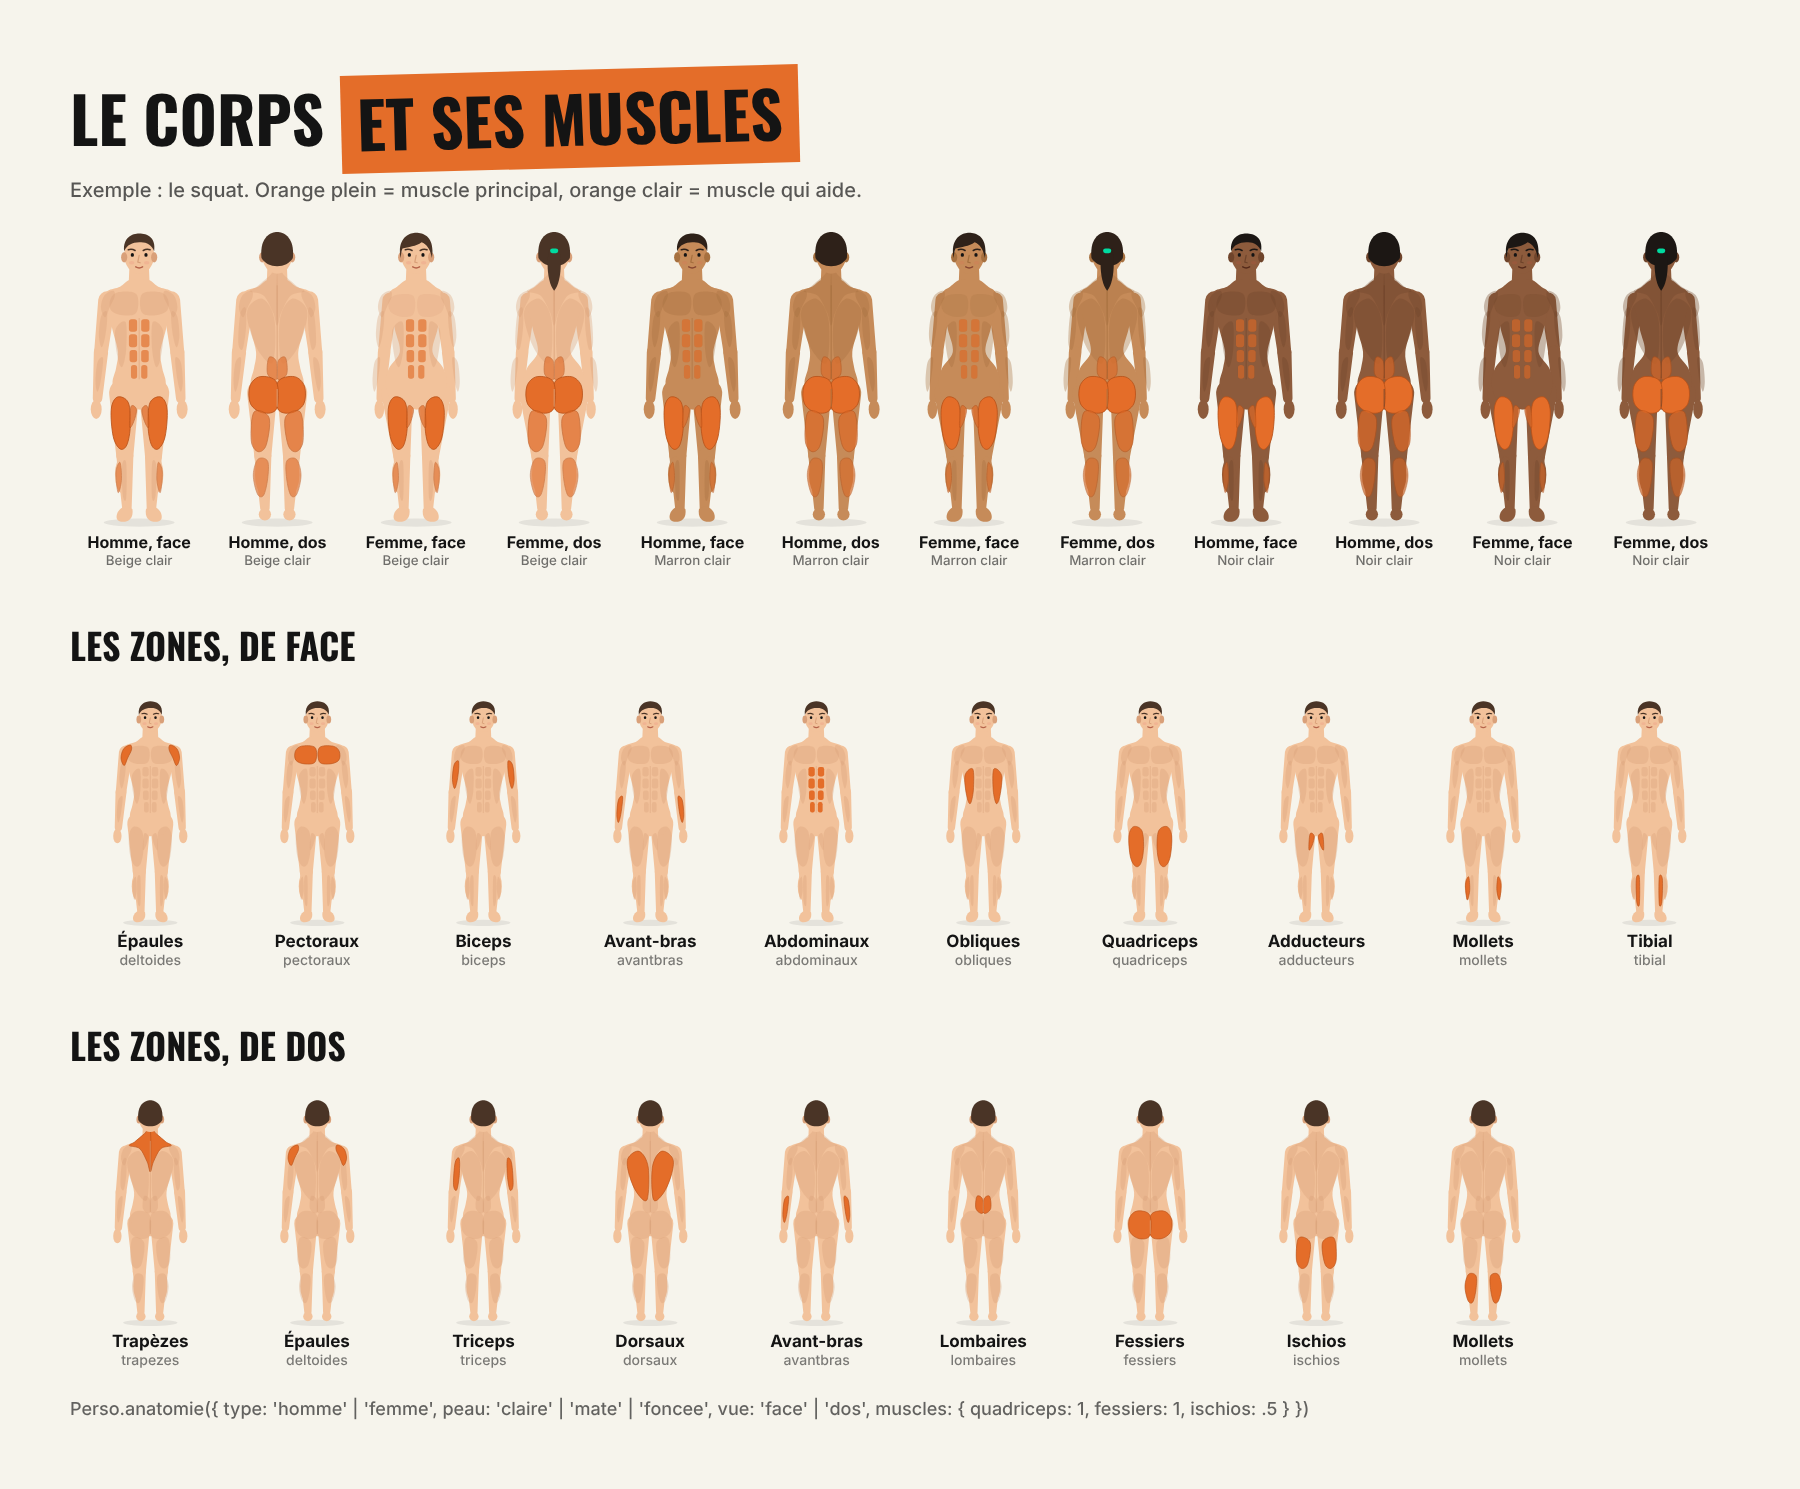
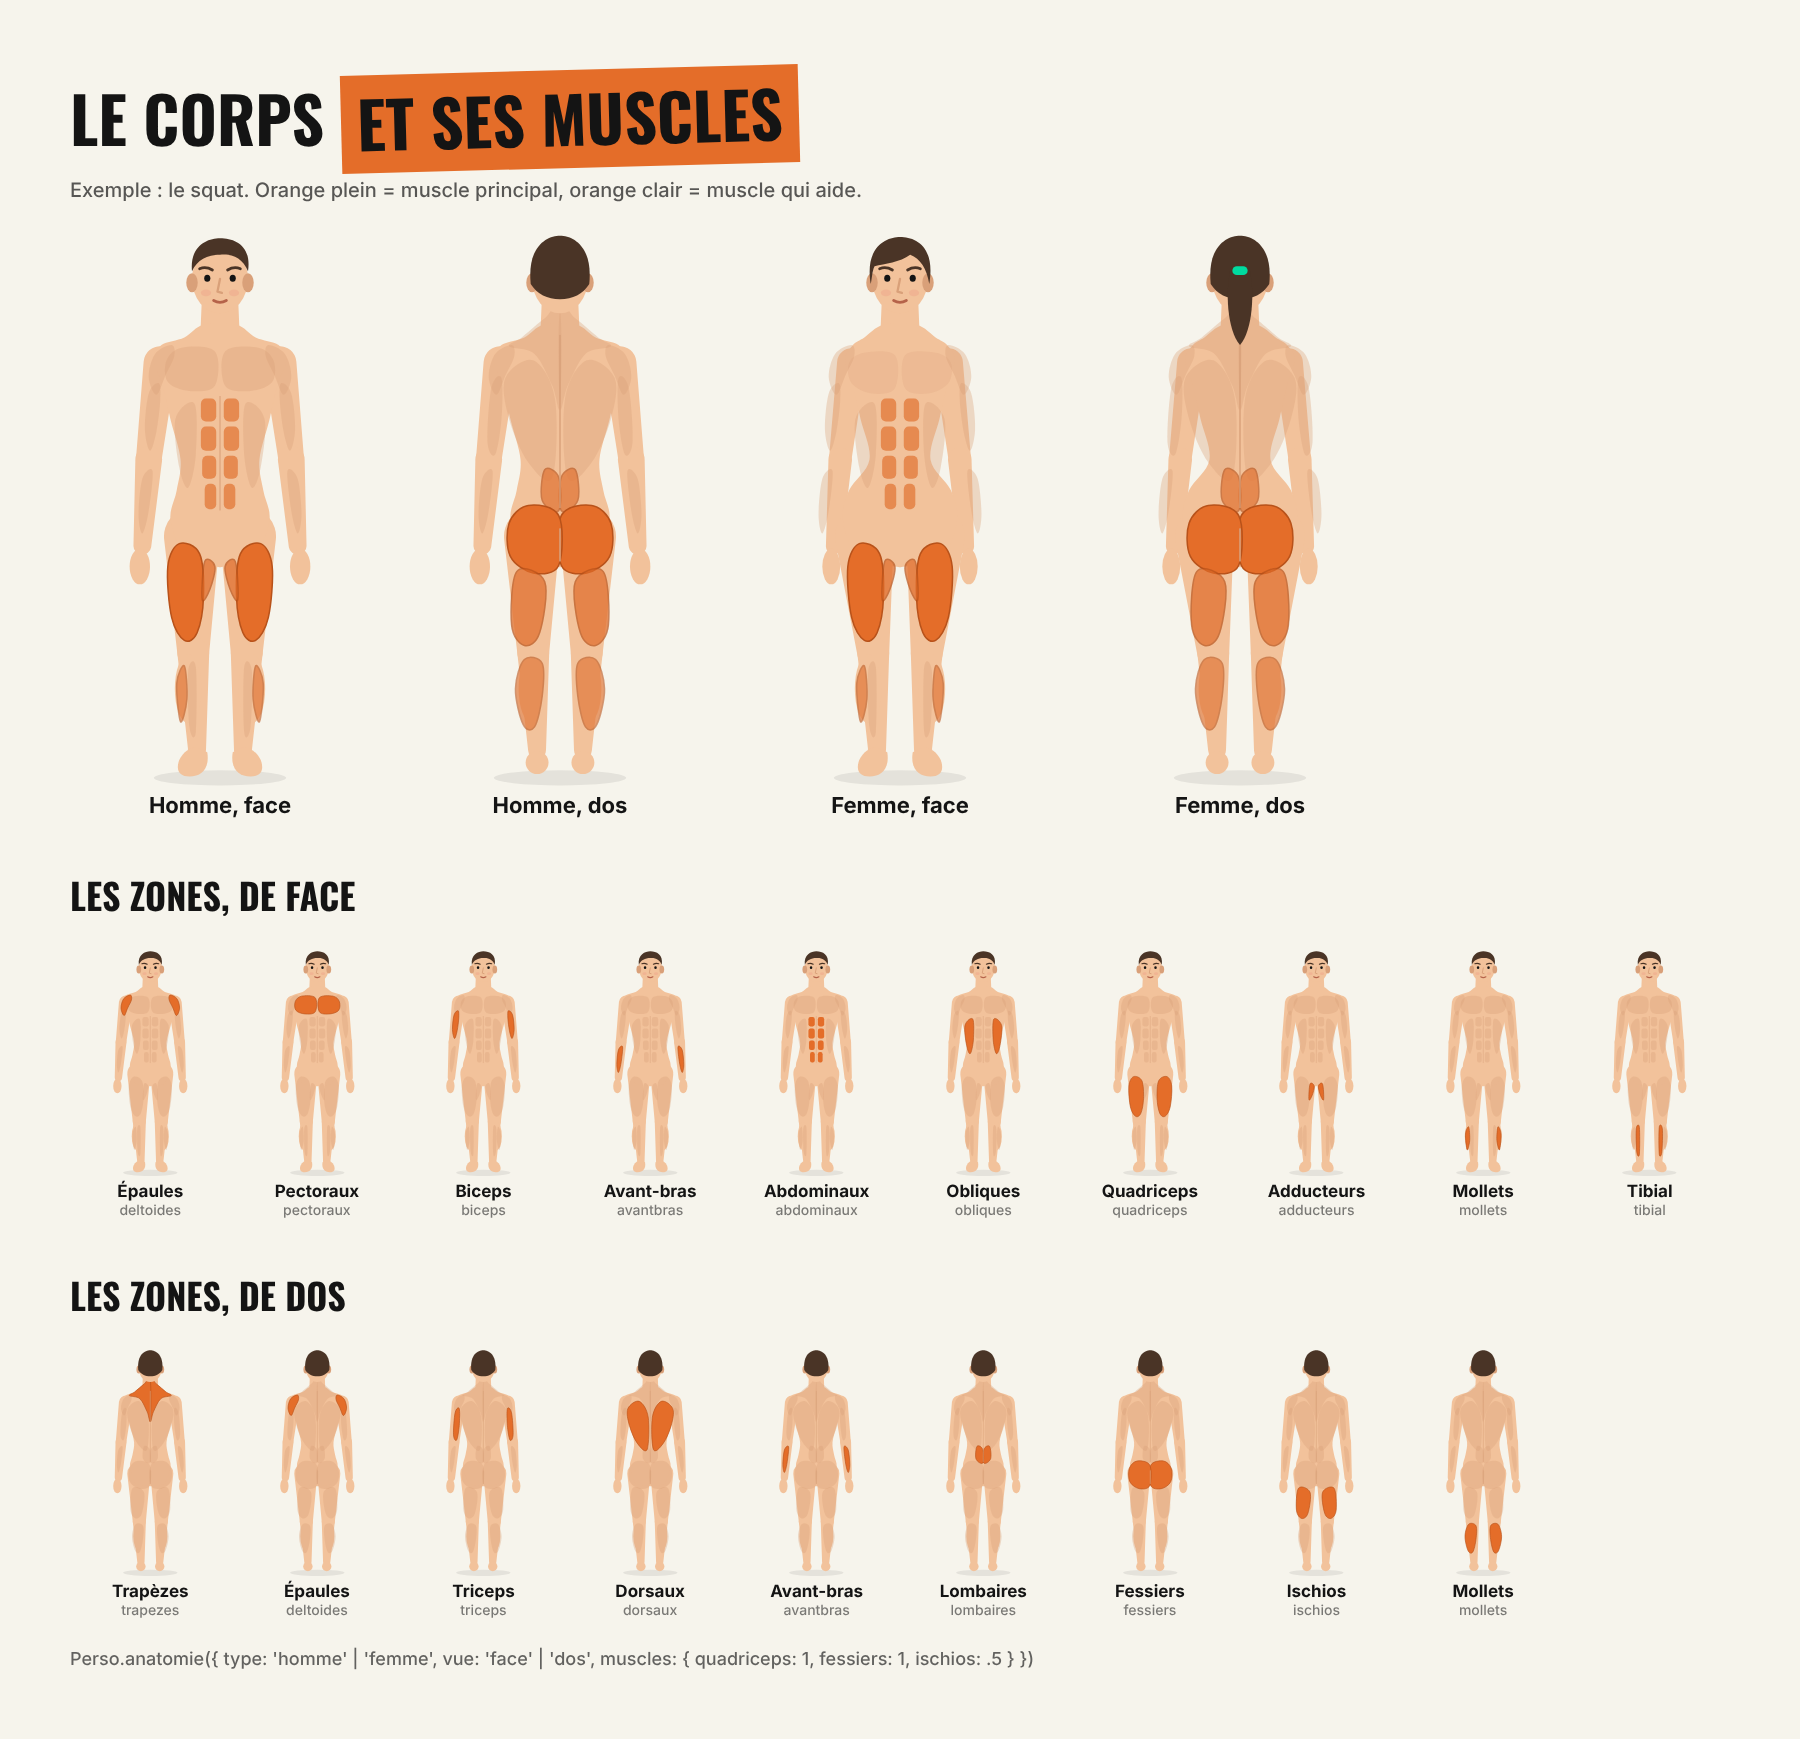
Anatomy mannequin: beige skin only
Claude-Session: https://claude.ai/code/session_01EmtKGbXg2Rz9u67xYLS3c3

diff --git a/.claude/instagram/carrousels/personnages/anatomie.html b/.claude/instagram/carrousels/personnages/anatomie.html
@@ -12,9 +12,9 @@
   h1 span { background: #e46d29; padding: 0 16px 4px; display: inline-block; transform: rotate(-1.5deg); }
   h2 { font-family: Oswald, sans-serif; text-transform: uppercase; font-size: 36px; margin-top: 50px; }
   .sous { font-size: 20px; opacity: .7; margin-top: 10px; }
-  .grille { display: grid; grid-template-columns: repeat(12, 1fr); margin-top: 26px; text-align: center; }
-  .grille svg { width: 100%; height: 300px; }
-  .lab { font-weight: 700; font-size: 16px; }
+  .grille { display: grid; grid-template-columns: repeat(4, 300px); gap: 40px; margin-top: 26px; text-align: center; }
+  .grille svg { width: 100%; height: 560px; }
+  .lab { font-weight: 700; font-size: 22px; }
   .lab small { display: block; font-weight: 500; opacity: .6; }
   .zones { display: grid; grid-template-columns: repeat(10, 1fr); gap: 6px; margin-top: 26px; text-align: center; }
   .zones svg { width: 100%; height: 230px; }
@@ -32,7 +32,7 @@
   <div class="zones" id="zf"></div>
   <h2>Les zones, de dos</h2>
   <div class="zones" id="zd"></div>
-  <p class="code">Perso.anatomie({ type: 'homme' | 'femme', peau: 'claire' | 'mate' | 'foncee', vue: 'face' | 'dos', muscles: { quadriceps: 1, fessiers: 1, ischios: .5 } })</p>
+  <p class="code">Perso.anatomie({ type: 'homme' | 'femme', vue: 'face' | 'dos', muscles: { quadriceps: 1, fessiers: 1, ischios: .5 } })</p>
 </section>
 <script src="../personnages.js"></script>
 <script>
@@ -40,11 +40,10 @@ const NOMS = { deltoides: 'Épaules', pectoraux: 'Pectoraux', biceps: 'Biceps', 
   obliques: 'Obliques', quadriceps: 'Quadriceps', adducteurs: 'Adducteurs', mollets: 'Mollets', tibial: 'Tibial',
   trapezes: 'Trapèzes', triceps: 'Triceps', dorsaux: 'Dorsaux', lombaires: 'Lombaires', fessiers: 'Fessiers', ischios: 'Ischios' };
 const squat = { quadriceps: 1, fessiers: 1, ischios: .5, adducteurs: .5, mollets: .3, abdominaux: .4, lombaires: .4 };
-const peaux = { claire: 'Beige clair', mate: 'Marron clair', foncee: 'Noir clair' };
 const fig = (o, h) => `<svg viewBox="0 0 200 440">${Perso.anatomie(o)}</svg>`;
 let g = '';
-for (const p in peaux) for (const t of ['homme', 'femme']) for (const v of ['face', 'dos'])
-  g += `<div>${fig({ type: t, peau: p, vue: v, muscles: squat })}<div class="lab">${t === 'homme' ? 'Homme' : 'Femme'}, ${v}<small>${peaux[p]}</small></div></div>`;
+for (const t of ['homme', 'femme']) for (const v of ['face', 'dos'])
+  g += `<div>${fig({ type: t, vue: v, muscles: squat })}<div class="lab">${t === 'homme' ? 'Homme' : 'Femme'}, ${v}</div></div>`;
 document.getElementById('g').innerHTML = g;
 for (const [id, vue] of [['zf', 'face'], ['zd', 'dos']])
   document.getElementById(id).innerHTML = Perso.MUSCLES[vue].map(m =>

diff --git a/.claude/instagram/carrousels/personnages.js b/.claude/instagram/carrousels/personnages.js
@@ -253,9 +253,10 @@ function cadrer(svg, marge = 8) {
 
 // ---------------------------------------------------------------------------
 // Mannequin anatomique, de face ou de dos, pour montrer les muscles travaillés.
-//   Perso.anatomie({ type: 'homme' | 'femme', peau, vue: 'face' | 'dos',
+//   Perso.anatomie({ type: 'homme' | 'femme', vue: 'face' | 'dos',
 //                    muscles: { quadriceps: 1, fessiers: 1, ischios: .5 } })
 // renvoie le dessin dans un repère 0 0 200 440 (pieds à y = 430).
+// Le mannequin est toujours en peau beige clair.
 // Intensité de 0 à 1 : 1 = muscle principal, .5 = muscle qui aide.
 // Noms : Perso.MUSCLES.face et Perso.MUSCLES.dos.
 
@@ -293,7 +294,7 @@ const MUSCLES_DOS = {
 const ABDOS = [[103, 134, 12, 18], [103, 156, 12, 19], [103, 179, 11, 18], [103, 201, 9, 20]];
 
 function anatomie(o = {}) {
-  const C = couleurs({ type: o.type || 'homme', peau: o.peau }), S = SILHOUETTE[o.type === 'femme' ? 'femme' : 'homme'];
+  const C = couleurs({ type: o.type || 'homme', peau: 'claire' }), S = SILHOUETTE[o.type === 'femme' ? 'femme' : 'homme'];
   const dos = o.vue === 'dos', M = o.muscles || {}, femme = o.type === 'femme';
   const sym = pts => pts.concat(pts.slice().reverse().map(([x, y]) => [200 - x, y]));
   const miroir = s => s + `<g transform="translate(200 0) scale(-1 1)">${s}</g>`;

diff --git a/.claude/instagram/charte.md b/.claude/instagram/charte.md
@@ -49,7 +49,8 @@ Bibliothèque commune : `carrousels/personnages.js`, planche : `carrousels/perso
 Mannequin lisse, de face ou de dos, pour montrer les muscles travaillés
 (inspiré des infographies @supertrainers). Planche : `carrousels/personnages/anatomie.png`.
 
-- `Perso.anatomie({ type: 'homme' | 'femme', peau, vue: 'face' | 'dos', muscles: { quadriceps: 1, fessiers: 1, ischios: .5 } })`,
+- Toujours en peau beige clair (choix de Célian).
+- `Perso.anatomie({ type: 'homme' | 'femme', vue: 'face' | 'dos', muscles: { quadriceps: 1, fessiers: 1, ischios: .5 } })`,
   dessin dans un repère `0 0 200 440`.
 - Muscles en orange de la charte : 1 = muscle principal, .5 = muscle qui aide.
   Les autres restent en contour léger.
